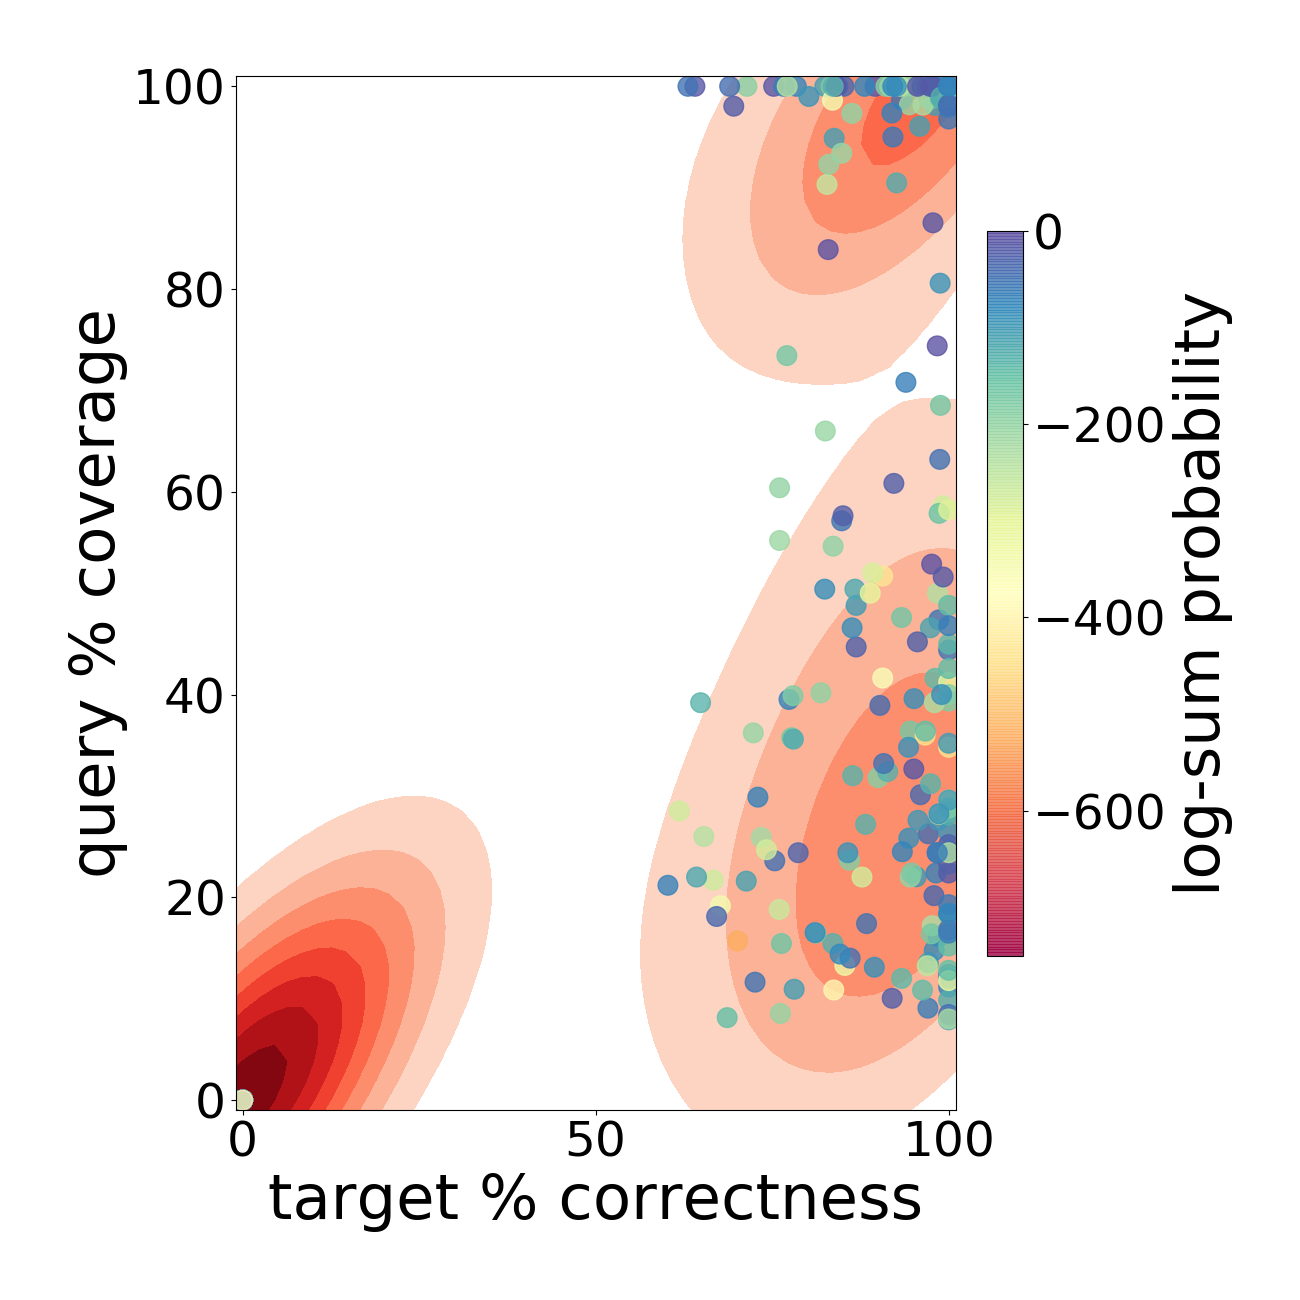
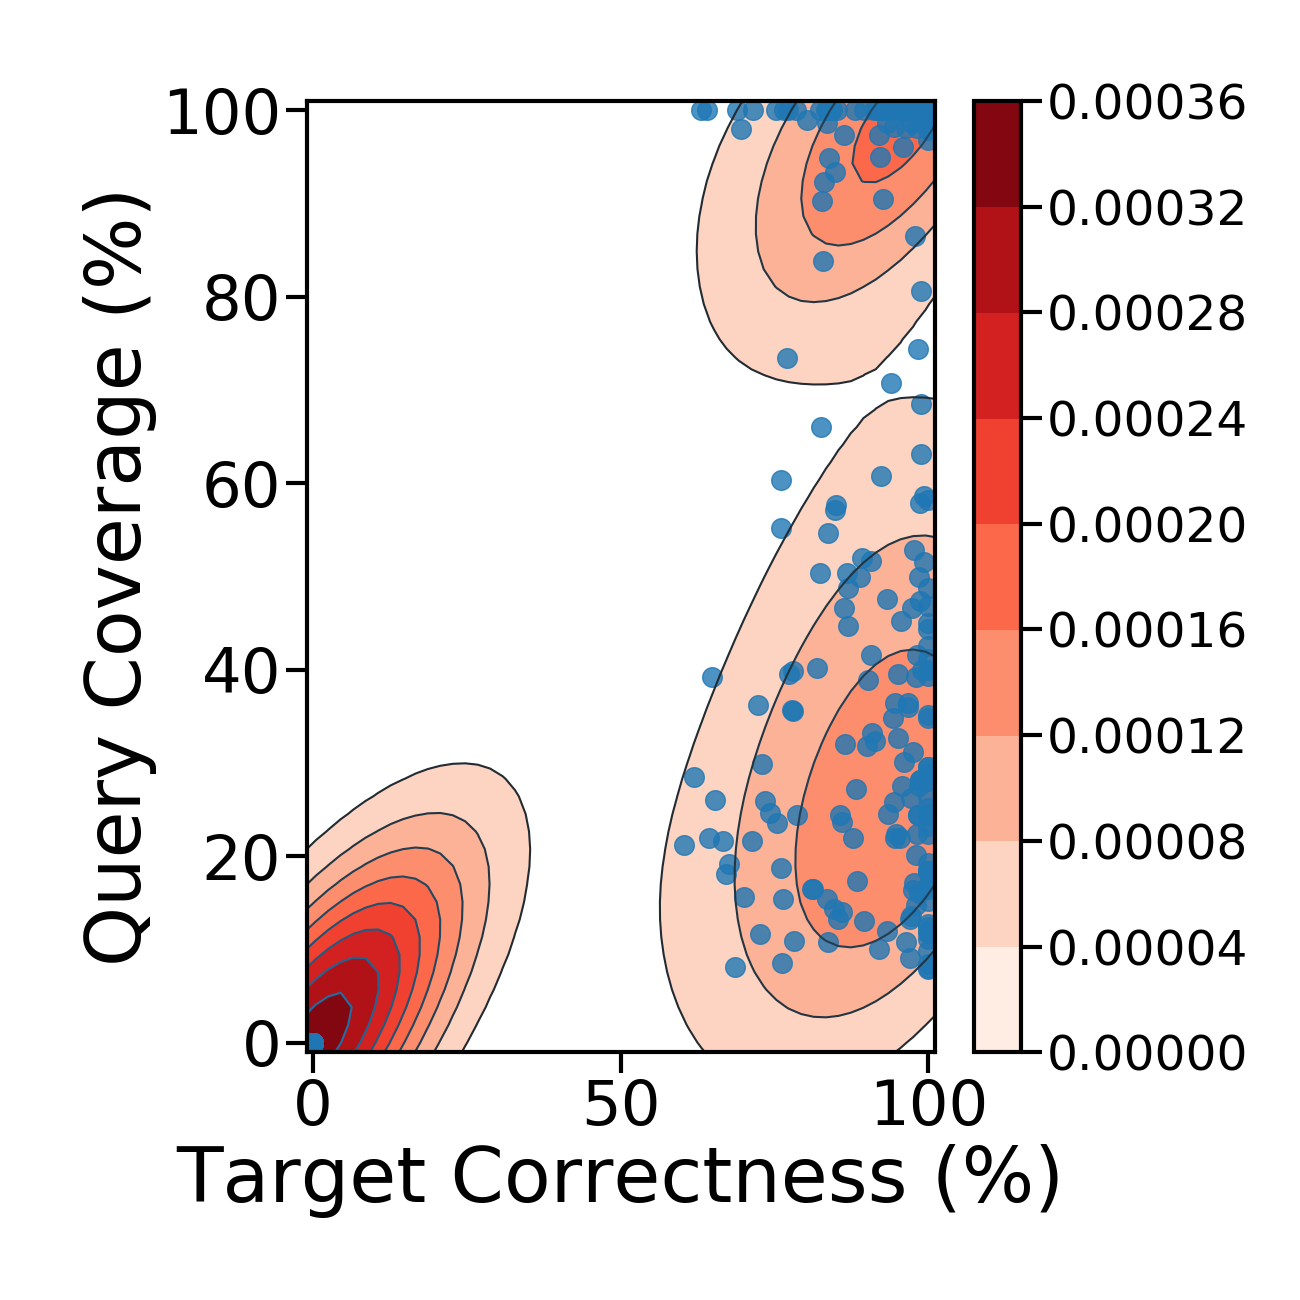
Improve figures
1) Better axis labels
2) Colour bar for probability density
3) Thicker lines
4) More clear contours

Changed region(s): [[0.0308, 0.0615, 0.9538, 0.9538], [0.0923, 0.0615, 0.2462, 0.1231], [0.5538, 0.4615, 0.5846, 0.4923]]

diff --git a/src/app/helper_scripts/data_crunching/wrangle_csv.py b/src/app/helper_scripts/data_crunching/wrangle_csv.py
@@ -1,5 +1,6 @@
 import os
 
+import matplotlib as mpl
 import matplotlib.pyplot as plt
 import numpy as np
 import pandas as pd
@@ -10,13 +11,18 @@ import utils.directory_utils as utils
 correctness_threshold = 0.7
 distance_threshold = 20
 prediction_length = 750
-primary_text_font_size = 45
-secondary_text_font_size = 35
+primary_text_font_size = 55
+secondary_text_font_size = 45
 
-if os.name == 'nt':
-    base_path = "E:\\Users\\Documents\\School Year 18-19\\Term 1\\CPSC 449\\Sealer_NN\\src\\app\\helper_scripts\\data_crunching\\"
-else:
-    base_path = "/home/echen/Desktop/Projects/Sealer_NN/src/app/helper_scripts/data_crunching/"
+axiswidth = 3
+ticksize = 15
+mpl.rcParams['axes.linewidth'] = axiswidth
+mpl.rcParams['xtick.major.size'] = ticksize
+mpl.rcParams['xtick.major.width'] = axiswidth
+mpl.rcParams['ytick.major.size'] = ticksize
+mpl.rcParams['ytick.major.width'] = axiswidth
+
+base_path = "E:\\Users\\Documents\\School_Year_18-19\\Term_1\\CPSC_449\\Sealer_NN\\src\\app\\helper_scripts\\data_crunching\\"
 
 def evaluate_gap(df, predict_from_left):
     query_coverage = []
@@ -80,20 +86,20 @@ def plot_comparison_scatter(data, file_path):
     x = data["target_gap_correctness"] * 100
     y = data["target_correctness"] * 100
 
-    sns.kdeplot(x, y, cmap="Reds", shade=True, shade_lowest=False)
-    points = plt.scatter(x, y, s=200, alpha=0.8)
+    sns.kdeplot(x, y)
+    sns.kdeplot(x, y, cmap="Reds", shade=True, shade_lowest=False, cbar=True)
+    plt.scatter(x, y, s=200, alpha=0.8)
 
     plt.xlim((-1, 101))
     plt.ylim((-1, 101))
-    plt.xlabel('GapPredict % correctness')
-    plt.ylabel('Sealer % correctness')
+    plt.xlabel('GapPredict Correctness (%)')
+    plt.ylabel('Sealer Correctness (%)')
 
     plt.tight_layout()
     fig = plt.savefig(file_path)
     plt.close(fig)
 
 def plot_scatter(data, file_path):
-    cbar_text_font_size = 35
     plt.rc('xtick', labelsize=secondary_text_font_size)
     plt.rc('ytick', labelsize=secondary_text_font_size)
     font = {
@@ -108,18 +114,16 @@ def plot_scatter(data, file_path):
     x = data["target_gap_correctness"]*100
     y = data["query_gap_coverage"]*100
 
-    sns.kdeplot(x, y, cmap="Reds", shade=True, shade_lowest=False)
-    points = plt.scatter(x, y, c=data["log-sum-probability"], alpha=0.8, s=200, cmap="Spectral")
+    sns.kdeplot(x, y)
+    ax = sns.kdeplot(x, y, cmap="Reds", shade=True, shade_lowest=False, cbar=True)
+    ax.figure.axes[-1].tick_params(axis='both', which='major', labelsize=35)
 
-    cbar = plt.colorbar(points, fraction=0.046, pad=0.04)
-    cbar.ax.tick_params(labelsize=cbar_text_font_size)
-    cbar.set_label("log-sum probability")
+    plt.scatter(x, y, alpha=0.8, s=200)
 
-    plt.clim(0, -750)
     plt.xlim((-1, 101))
     plt.ylim((-1, 101))
-    plt.xlabel('target % correctness')
-    plt.ylabel('query % coverage')
+    plt.xlabel('Target Correctness (%)')
+    plt.ylabel('Query Coverage (%)')
 
     plt.tight_layout()
     fig = plt.savefig(file_path)
@@ -165,14 +169,22 @@ def compute_metrics(gap_left, gap_right, left_subflank, right_subflank, id):
     fixed_pass = columns_to_plot[(columns_to_plot.is_fixed == 1) & (columns_to_plot.gap_pass == 1)]
     fixed_fail = columns_to_plot[(columns_to_plot.is_fixed == 1) & (columns_to_plot.gap_pass == 0)]
     total_fixed = len(fixed_pass) + len(fixed_fail)
+    fixed_zero_pass = fixed_pass[(fixed_pass.query_gap_coverage < 0.05) & (fixed_pass.target_gap_correctness < 0.05)]
+    fixed_zero_fail = fixed_fail[(fixed_fail.query_gap_coverage < 0.05) & (fixed_fail.target_gap_correctness < 0.05)]
     print("Fixed Pass = " + str(len(fixed_pass)) + "/" + str(total_fixed))
     print("Fixed Fail = " + str(len(fixed_fail)) + "/" + str(total_fixed))
+    print("Fixed Zero Pass = " + str(len(fixed_zero_pass)) + "/" + str(len(fixed_pass)))
+    print("Fixed Zero Fail = " + str(len(fixed_zero_fail)) + "/" + str(len(fixed_fail)))
 
     unfixed_pass = columns_to_plot[(columns_to_plot.is_fixed == 0) & (columns_to_plot.gap_pass == 1)]
     unfixed_fail = columns_to_plot[(columns_to_plot.is_fixed == 0) & (columns_to_plot.gap_pass == 0)]
+    unfixed_zero_pass = unfixed_pass[(unfixed_pass.query_gap_coverage < 0.05) & (unfixed_pass.target_gap_correctness < 0.05)]
+    unfixed_zero_fail = unfixed_fail[(unfixed_fail.query_gap_coverage < 0.05) & (unfixed_fail.target_gap_correctness < 0.05)]
     total_unfixed = len(unfixed_pass) + len(unfixed_fail)
     print("Unfixed Pass = " + str(len(unfixed_pass)) + "/" + str(total_unfixed))
     print("Unfixed Fail = " + str(len(unfixed_fail)) + "/" + str(total_unfixed))
+    print("Unfixed Zero Pass = " + str(len(unfixed_zero_pass)) + "/" + str(len(unfixed_pass)))
+    print("Unfixed Zero Fail = " + str(len(unfixed_zero_fail)) + "/" + str(len(unfixed_fail)))
 
     delimiter = utils.get_terminal_directory_character()
 

diff --git a/src/app/helper_scripts/data_crunching/wrangle_sealer.py b/src/app/helper_scripts/data_crunching/wrangle_sealer.py
@@ -1,5 +1,6 @@
 import os
 
+import matplotlib as mpl
 import matplotlib.pyplot as plt
 import numpy as np
 import pandas as pd
@@ -7,10 +8,15 @@ import seaborn as sns
 
 import utils.directory_utils as utils
 
-if os.name == 'nt':
-    base_path = "E:\\Users\\Documents\\School Year 18-19\\Term 1\\CPSC 449\\Sealer_NN\\src\\app\\helper_scripts\\data_crunching\\"
-else:
-    base_path = "/home/echen/Desktop/Projects/Sealer_NN/src/app/helper_scripts/data_crunching/"
+base_path = "E:\\Users\\Documents\\School_Year_18-19\\Term_1\\CPSC_449\\Sealer_NN\\src\\app\\helper_scripts\\data_crunching\\"
+
+axiswidth = 3
+ticksize = 15
+mpl.rcParams['axes.linewidth'] = axiswidth
+mpl.rcParams['xtick.major.size'] = ticksize
+mpl.rcParams['xtick.major.width'] = axiswidth
+mpl.rcParams['ytick.major.size'] = ticksize
+mpl.rcParams['ytick.major.width'] = axiswidth
 
 def transform_dataframe(df):
     df['total_percent_id'] = (df.matches/df.total_length).fillna(0)
@@ -18,10 +24,10 @@ def transform_dataframe(df):
     df['target_correctness'] = (df.total_percent_id * df.coverage * 100).fillna(0)
 
 def plot_box(data, file_path):
-    primary_text_font_size = 45
-    secondary_text_font_size = 35
+    primary_text_font_size = 55
+    secondary_text_font_size = 45
     linewidth = 6
-    rotation = 45
+    rotation = 0
     plt.rc('xtick', labelsize=secondary_text_font_size)
     plt.rc('ytick', labelsize=secondary_text_font_size)
     font = {
@@ -41,9 +47,9 @@ def plot_box(data, file_path):
 
     ax = sns.boxplot(data=data, x="fixed_status", y="target_correctness", linewidth=linewidth, flierprops=flierprops)
     ax.set_xticklabels(ax.get_xticklabels(), rotation=rotation)
-    plt.ylim((-5, 100))
-    plt.xlabel('filled_with_all_reads')
-    plt.ylabel('target % correctness')
+    plt.ylim((-5, 101))
+    plt.xlabel('Gap Reads Source')
+    plt.ylabel('Target Correctness (%)')
 
     plt.tight_layout()
     fig = plt.savefig(file_path)
@@ -61,10 +67,10 @@ fixed = columns_to_plot[(columns_to_plot.is_fixed == 1)]
 unfixed = columns_to_plot[(columns_to_plot.is_fixed == 0)]
 joined_fixed = pd.merge(fixed, gap_fill_df, on=["gap_id", "is_fixed"], how="right")
 joined_fixed = joined_fixed[~np.isnan(joined_fixed.target_correctness)]
-joined_fixed["fixed_status"] = "filled"
+joined_fixed["fixed_status"] = "All"
 joined_unfixed = pd.merge(unfixed, gap_fill_df, on=["gap_id", "is_fixed"], how="right")
 joined_unfixed = joined_unfixed[~np.isnan(joined_unfixed.target_correctness)]
-joined_unfixed["fixed_status"] = "unfilled"
+joined_unfixed["fixed_status"] = "Individual"
 full_data = joined_fixed.append(joined_unfixed, ignore_index=True)
 
 delimiter = utils.get_terminal_directory_character()
